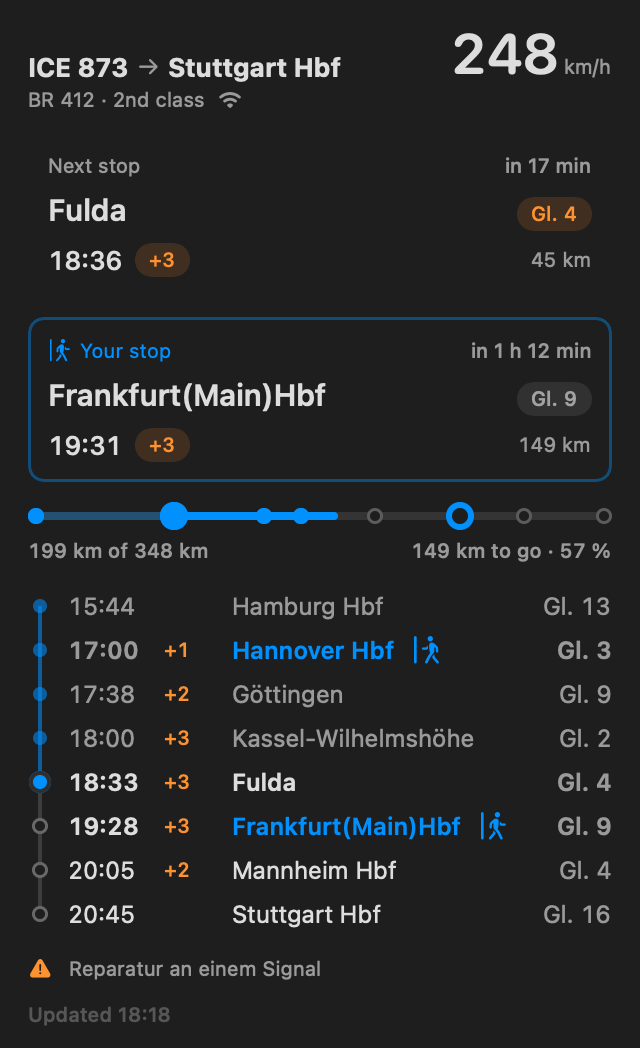
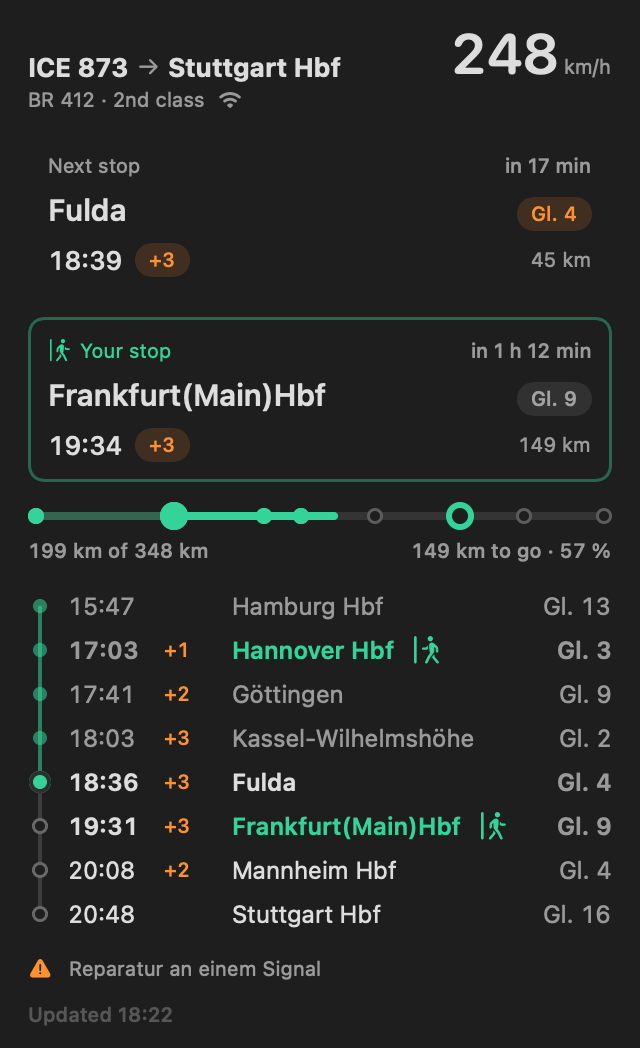
Green accent instead of the system blue
Emerald 400 on dark (8.7:1) and emerald 700 on light (5.5:1); the system blue
reached only about 4.6:1 on the dark panel. Screenshots regenerated.

diff --git a/macos/Sources/IceBar/MenuPanel.swift b/macos/Sources/IceBar/MenuPanel.swift
@@ -112,10 +112,10 @@ private struct StopCardView: View {
         VStack(alignment: .leading, spacing: 6) {
             HStack(spacing: 4) {
                 if isExit {
-                    Image(systemName: "figure.walk.departure").foregroundStyle(Color.accentColor)
+                    Image(systemName: "figure.walk.departure").foregroundStyle(Color.accent)
                 }
                 Text(isExit && title == "Next stop" ? "Next stop · you get off here" : title)
-                    .foregroundStyle(isExit ? Color.accentColor : .secondary)
+                    .foregroundStyle(isExit ? Color.accent : .secondary)
                 Spacer()
                 if let eta = next.eta {
                     Text(eta).font(.caption.weight(.medium)).foregroundStyle(.secondary)
@@ -144,7 +144,7 @@ private struct StopCardView: View {
         .clipShape(RoundedRectangle(cornerRadius: 8))
         .overlay(
             RoundedRectangle(cornerRadius: 8)
-                .strokeBorder(isExit ? Color.accentColor.opacity(0.4) : .clear, lineWidth: 1.5)
+                .strokeBorder(isExit ? Color.accent.opacity(0.4) : .clear, lineWidth: 1.5)
         )
     }
 }
@@ -162,10 +162,10 @@ private struct RouteBar: View {
                 ZStack(alignment: .leading) {
                     Capsule().fill(.quaternary).frame(height: 4)
                     // Travelled before you got on: faint. Your part so far: full accent.
-                    Capsule().fill(Color.accentColor.opacity(content.hasStart ? 0.3 : 1))
+                    Capsule().fill(Color.accent.opacity(content.hasStart ? 0.3 : 1))
                         .frame(width: max(4, w * progress), height: 4)
                     if content.hasStart {
-                        Capsule().fill(Color.accentColor)
+                        Capsule().fill(Color.accent)
                             .frame(width: max(0, w * (progress - content.startFraction)), height: 4)
                             .offset(x: w * content.startFraction)
                     }
@@ -198,13 +198,13 @@ private struct StopDot: View {
     var body: some View {
         if stop.isStart || stop.isExit {
             Circle()
-                .fill(reached ? Color.accentColor : Color(nsColor: .controlBackgroundColor))
-                .overlay(Circle().strokeBorder(Color.accentColor, lineWidth: 3))
+                .fill(reached ? Color.accent : Color(nsColor: .controlBackgroundColor))
+                .overlay(Circle().strokeBorder(Color.accent, lineWidth: 3))
                 .frame(width: 14, height: 14)
         } else {
             Circle()
-                .fill(reached ? Color.accentColor : Color(nsColor: .controlBackgroundColor))
-                .overlay(Circle().strokeBorder(reached ? Color.accentColor : Color.secondary.opacity(0.5), lineWidth: 1.5))
+                .fill(reached ? Color.accent : Color(nsColor: .controlBackgroundColor))
+                .overlay(Circle().strokeBorder(reached ? Color.accent : Color.secondary.opacity(0.5), lineWidth: 1.5))
                 .frame(width: 8, height: 8)
         }
     }
@@ -236,9 +236,9 @@ private struct StopTimeline: View {
             }
             switch stop.state {
             case .passed:
-                Circle().fill(Color.accentColor.opacity(0.55)).frame(width: 7, height: 7)
+                Circle().fill(Color.accent.opacity(0.55)).frame(width: 7, height: 7)
             case .next:
-                Circle().fill(Color.accentColor).frame(width: 11, height: 11)
+                Circle().fill(Color.accent).frame(width: 11, height: 11)
                     .overlay(Circle().strokeBorder(.background, lineWidth: 2))
             case .upcoming:
                 Circle().strokeBorder(Color.secondary.opacity(0.6), lineWidth: 1.5)
@@ -252,7 +252,7 @@ private struct StopTimeline: View {
     // The line into a stop is "travelled" for passed and next stops; out of it only for passed ones.
     static func lineColor(_ stop: MenuContent.StopRow, upper: Bool) -> Color {
         let travelled = upper ? stop.state != .upcoming : stop.state == .passed
-        return travelled ? Color.accentColor.opacity(0.55) : Color.secondary.opacity(0.25)
+        return travelled ? Color.accent.opacity(0.55) : Color.secondary.opacity(0.25)
     }
 }
 
@@ -268,7 +268,7 @@ private struct StopRowView: View {
     private var marked: Bool { stop.isStart || stop.isExit }
 
     private var nameColor: Color {
-        if marked { return .accentColor }
+        if marked { return .accent }
         return stop.state == .passed ? .secondary : .primary
     }
 
@@ -292,12 +292,12 @@ private struct StopRowView: View {
             Text(stop.name).lineLimit(1).foregroundStyle(nameColor)
             if stop.isStart {
                 Image(systemName: "figure.walk.arrival")
-                    .foregroundStyle(Color.accentColor)
+                    .foregroundStyle(Color.accent)
                     .accessibilityLabel("Where you got on")
             }
             if stop.isExit {
                 Image(systemName: "figure.walk.departure")
-                    .foregroundStyle(Color.accentColor)
+                    .foregroundStyle(Color.accent)
                     .accessibilityLabel("Where you get off")
             }
             Spacer(minLength: 4)
@@ -381,4 +381,14 @@ private struct OfflineView: View {
         .frame(maxWidth: .infinity)
         .padding(.vertical, 12)
     }
+}
+
+extension Color {
+    /// IceBar's accent instead of the system blue: a green with high contrast on both panel
+    /// backgrounds (emerald 400 on dark, 8.7:1; emerald 700 on light, 5.5:1).
+    static let accent = Color(nsColor: NSColor(name: nil) { appearance in
+        appearance.bestMatch(from: [.aqua, .darkAqua]) == .darkAqua
+            ? NSColor(srgbRed: 0x34 / 255, green: 0xD3 / 255, blue: 0x99 / 255, alpha: 1)
+            : NSColor(srgbRed: 0x04 / 255, green: 0x78 / 255, blue: 0x57 / 255, alpha: 1)
+    })
 }
